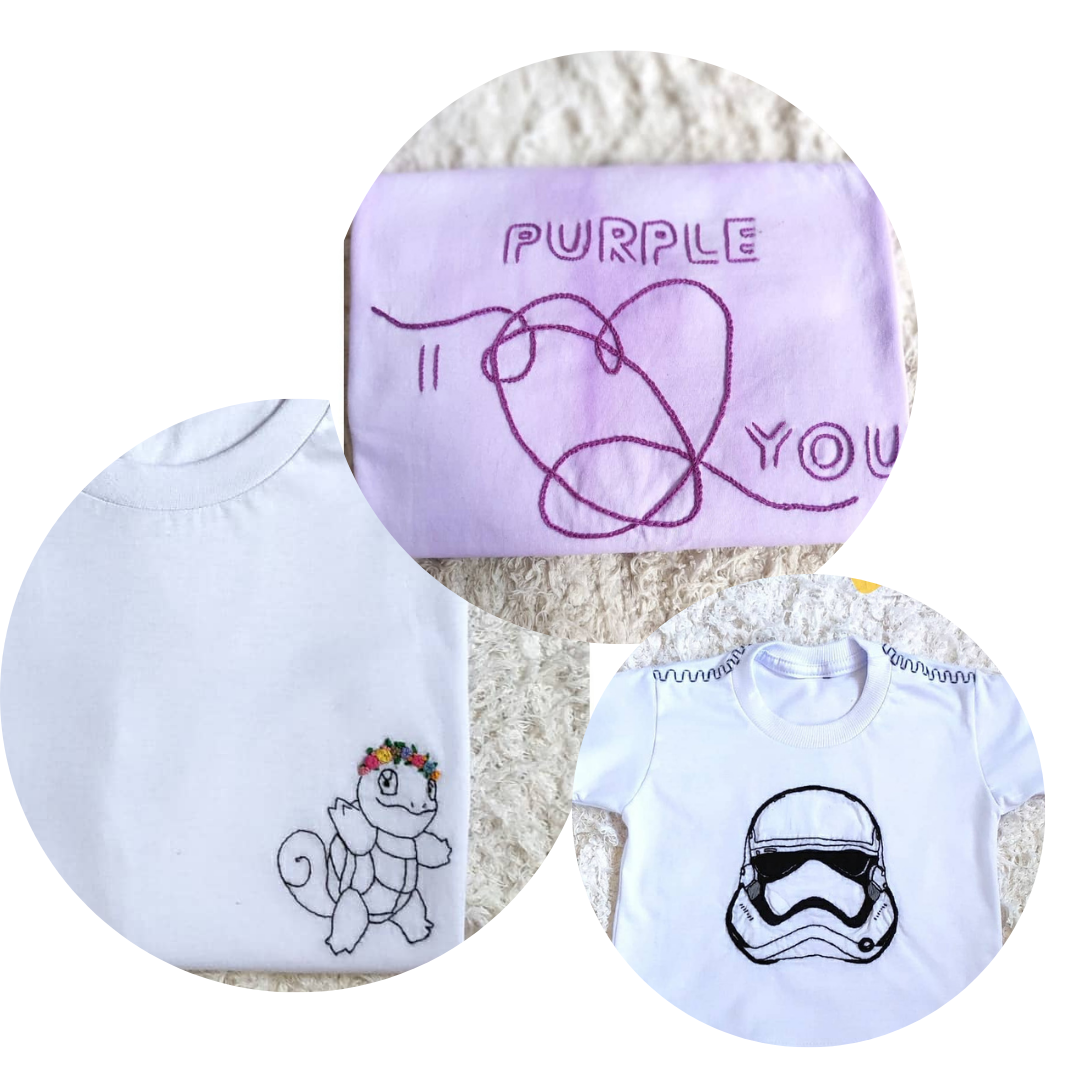
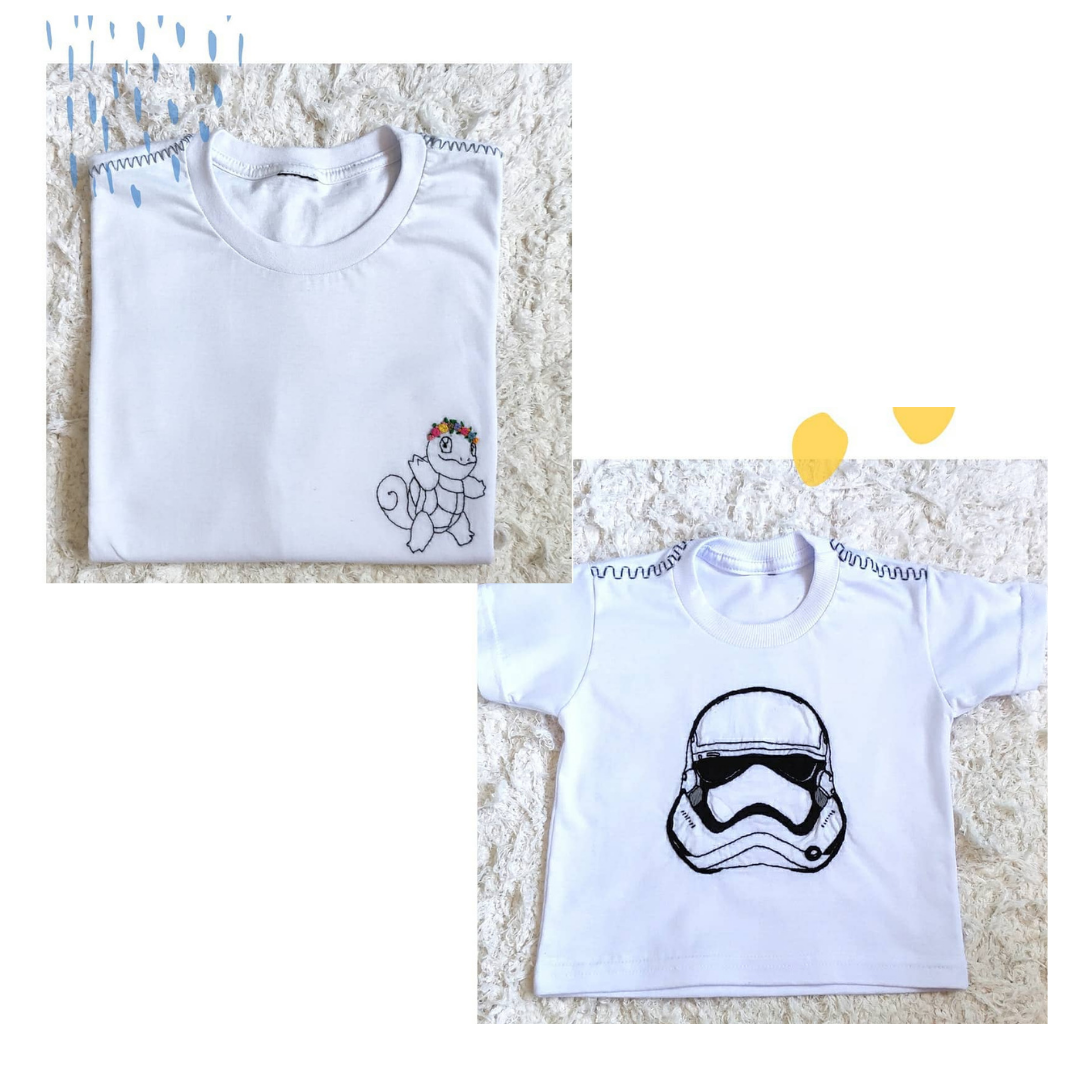
added package component and fixed some divs

diff --git a/src/pages/Products.js b/src/pages/Products.js
@@ -3,10 +3,13 @@ import Background from "../components/Background/Background"
 import  Subtitles  from "../components/Subtitles/Subtitles"
 import SectionProducts from "../components/SectionProducts/SectionProducts"
 import ThemeEmbroidery from '../assets/themeEmbroidery.png'
-import TshirtEmbroidery from '../assets/starwars.jpg'
+import TshirtEmbroidery from '../assets/t-shirts.png'
 import MiniEmbroidery from '../assets/miniEmbroidery.png'
 import Interactive from '../assets/interactive.jpg'
+import Package from '../assets/package.jpg'
+import Package2 from '../assets/package2.jpg'
 import Footer from "../components/Footer/Footer"
+import PackagesInt from "../components/PackagesInt/PackagesInt"
 
 
 
@@ -23,7 +26,14 @@ const Products = ()=>{
             <SectionProducts category='Bordados em chaveiros' categoryText='Os chaveiros são em mini molduras circulares de 4cm e acompanham um tassel de linha'>{MiniEmbroidery}</SectionProducts>
             </div>
             <Subtitles>Bordado Interativo</Subtitles>
-            <SectionProducts categoryText='Os bordados interativos podem ser tanto em bastidor quanto em camisa. Consiste na adição do código bordado de uma música disponível no Spotify. '>{Interactive}</SectionProducts>
+            <SectionProducts className='category' categoryText='Os bordados interativos podem ser tanto em bastidor quanto em camisa. Consiste na adição do código bordado de uma música disponível no Spotify. '>{Interactive}</SectionProducts>
+            <Subtitles>Embalagem Interativa</Subtitles>
+            <div className="pack-interactive">
+
+            <PackagesInt>{Package}</PackagesInt>
+            <PackagesInt>{Package2}</PackagesInt>
+            </div>
+            <SectionProducts className='pack' categoryText='As embalagens interativas são uma opção para deixar seu presente mais estilizado. Consiste na adição do código desenhado de uma música disponível no Spotify. As embalagens interativas não têm custos adicionais.'></SectionProducts>
              <Footer></Footer>
         </>
     )

diff --git a/src/components/SectionProducts/sectionproducts.css b/src/components/SectionProducts/sectionproducts.css
@@ -28,8 +28,6 @@
     .category{
         display: flex;
         flex-direction: row;
-        justify-content: center;
-        align-content: center;
     }
 
     
@@ -37,6 +35,8 @@
     font-size: 1.2rem;
     text-align: justify;
     padding: 2rem;
+    max-width: 30rem;
 }
+
 
 }

diff --git a/src/components/PackagesInt/PackagesInt.jsx b/src/components/PackagesInt/PackagesInt.jsx
@@ -1,0 +1,13 @@
+
+import './packages.css'
+
+const PackagesInt = (props) => {
+
+    return (
+        <div className='pack' >
+
+            <img src={props.children} alt='imagem de fundo' />
+        </div>
+    )
+}
+export default PackagesInt

diff --git a/src/components/PackagesInt/packages.css b/src/components/PackagesInt/packages.css
@@ -1,0 +1,12 @@
+.pack img{
+  max-width: 500px;
+  max-height: 500px;
+}
+.pack-interactive{
+
+display: flex;
+flex-wrap: wrap;
+justify-content: center;
+align-content: center;
+margin-top: 2rem;
+}

diff --git a/src/components/OurTeam/ourteam.css b/src/components/OurTeam/ourteam.css
@@ -12,7 +12,7 @@
     flex-wrap: wrap;
     margin: 2rem;
     padding: 2rem;
-    background-color: rgb(241, 233, 233);
+    background-color:#F0EBF5;
     width: 340px;
 }
 .colaborator-img {

diff --git a/src/components/Background/background.css b/src/components/Background/background.css
@@ -5,7 +5,7 @@
 
 @media (min-width:900px) {
     .photo-home{
-        height: 900px;
+        height: 800px;
         width: 100%;
     }
 }
